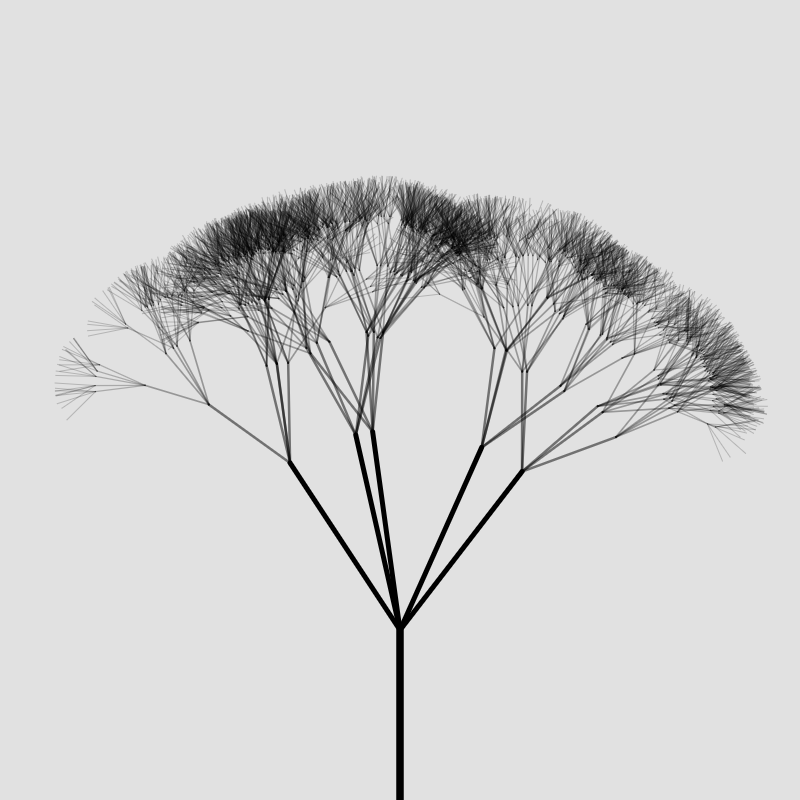
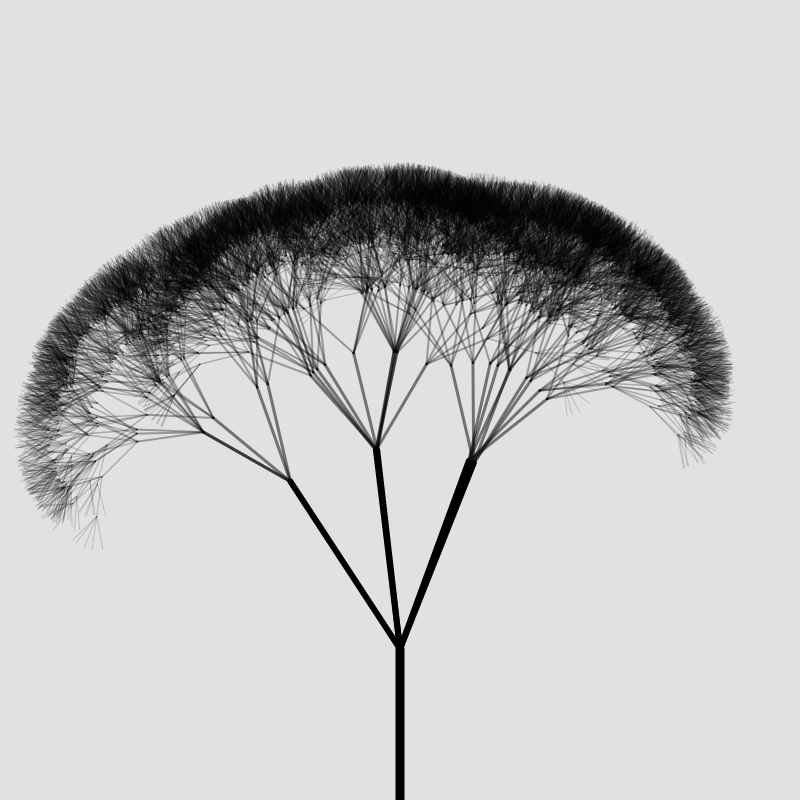
Fixed #3

Changed region(s): [[0.0, 0.1875, 0.9688, 0.8125]]

diff --git a/sketch.js b/sketch.js
@@ -5,7 +5,8 @@
 let steps = 10; // The steps that the recursion will execute
 let angle = 45; // Max random angle in angles
 let distance = 200; // Branch distance
-let branches = 2; // Num of branches that each one will have
+let branches = 3; // Num of branches that each one will have
+let enableRandom = false; // Is the tree actually random?
 
 let c; // The actual canvas
 let slider_angle; // The angle slider
@@ -15,6 +16,7 @@ let slider_steps; // The steps slider
 let slider_branches; // The branches slider
 let button_seed; // The seed button
 let button_save; // The save button
+let random_checkbox; // The enable randomness checkbox
 
 function setup() {
 
@@ -33,15 +35,17 @@ function setup() {
   slider_distance = createSlider(0.0, distance, distance, 0.01);
   slider_distance.input(generate);
 
-  createDiv('Steps:');
-  slider_steps = createSlider(0, steps, steps / 2, 1);
+  createDiv('Steps: [! WARNING, DON\'T GO TOO HIGH ]');
+  slider_steps = createSlider(0, 10, steps / 2, 1);
   slider_steps.input(generate);
 
-  createDiv('Branches:');
-  slider_branches = createSlider(1, 5, branches, 1);
+  createDiv('Branches: [! WARNING, DON\'T GO TOO HIGH ]');
+  slider_branches = createSlider(1, 10, branches, 1);
   slider_branches.input(generate);
 
-  createSpan('<br>');
+  random_checkbox = createCheckbox('Enable Randomness', enableRandom);
+  random_checkbox.changed(setRandom);
+
   button_seed = createButton("Generate");
   button_seed.mouseClicked(generate);
   button_save = createButton("Save");
@@ -52,7 +56,6 @@ function setup() {
 }
 
 function generate() {
-
   background(225);
 
   angle = slider_angle.value();
@@ -76,7 +79,6 @@ function save_canvas() {
 }
 
 function drawLines(i) {
-
   if (i > steps)
     return;
 
@@ -86,12 +88,19 @@ function drawLines(i) {
 
   for (let j = 0; j < branches; j++) {
     push();
-    rotate(random(-angle, angle));
+    if (enableRandom) {
+      rotate(random(-angle, angle));
+    } else {
+      rotate(map(j, 0, branches, -angle, angle));
+    }
     line(0, 0, 0, -localDist);
     translate(0, -localDist);
     drawLines(i + 1);
     pop();
   }
+}
 
-
+function setRandom() {
+  enableRandom = this.checked();
+  generate();
 }

diff --git a/style.css b/style.css
@@ -5,6 +5,7 @@ body {
 
   font-family: "Roboto";
   font-size: 22px;
+
 }
 
 canvas {

diff --git a/README.md b/README.md
@@ -1,7 +1,16 @@
 # Random-Fractal-Tree
 Simple recursive fractal tree algorithm just for you.
 
-[![example](https://raw.githubusercontent.com/CatalaHD/Random-Fractal-Tree/master/examples/myTree.png)](https://catalahd.github.io/Random-Fractal-Tree/)
+## Different types of trees
+
+### Random trees
+
+[![example1](https://raw.githubusercontent.com/CatalaHD/Random-Fractal-Tree/master/examples/myTree.png)](https://catalahd.github.io/Random-Fractal-Tree/)
+
+### Fractal trees
+
+[![example1](https://raw.githubusercontent.com/CatalaHD/Random-Fractal-Tree/master/examples/myTree2.png)](https://catalahd.github.io/Random-Fractal-Tree/)
+
 
 ## Editing
 
